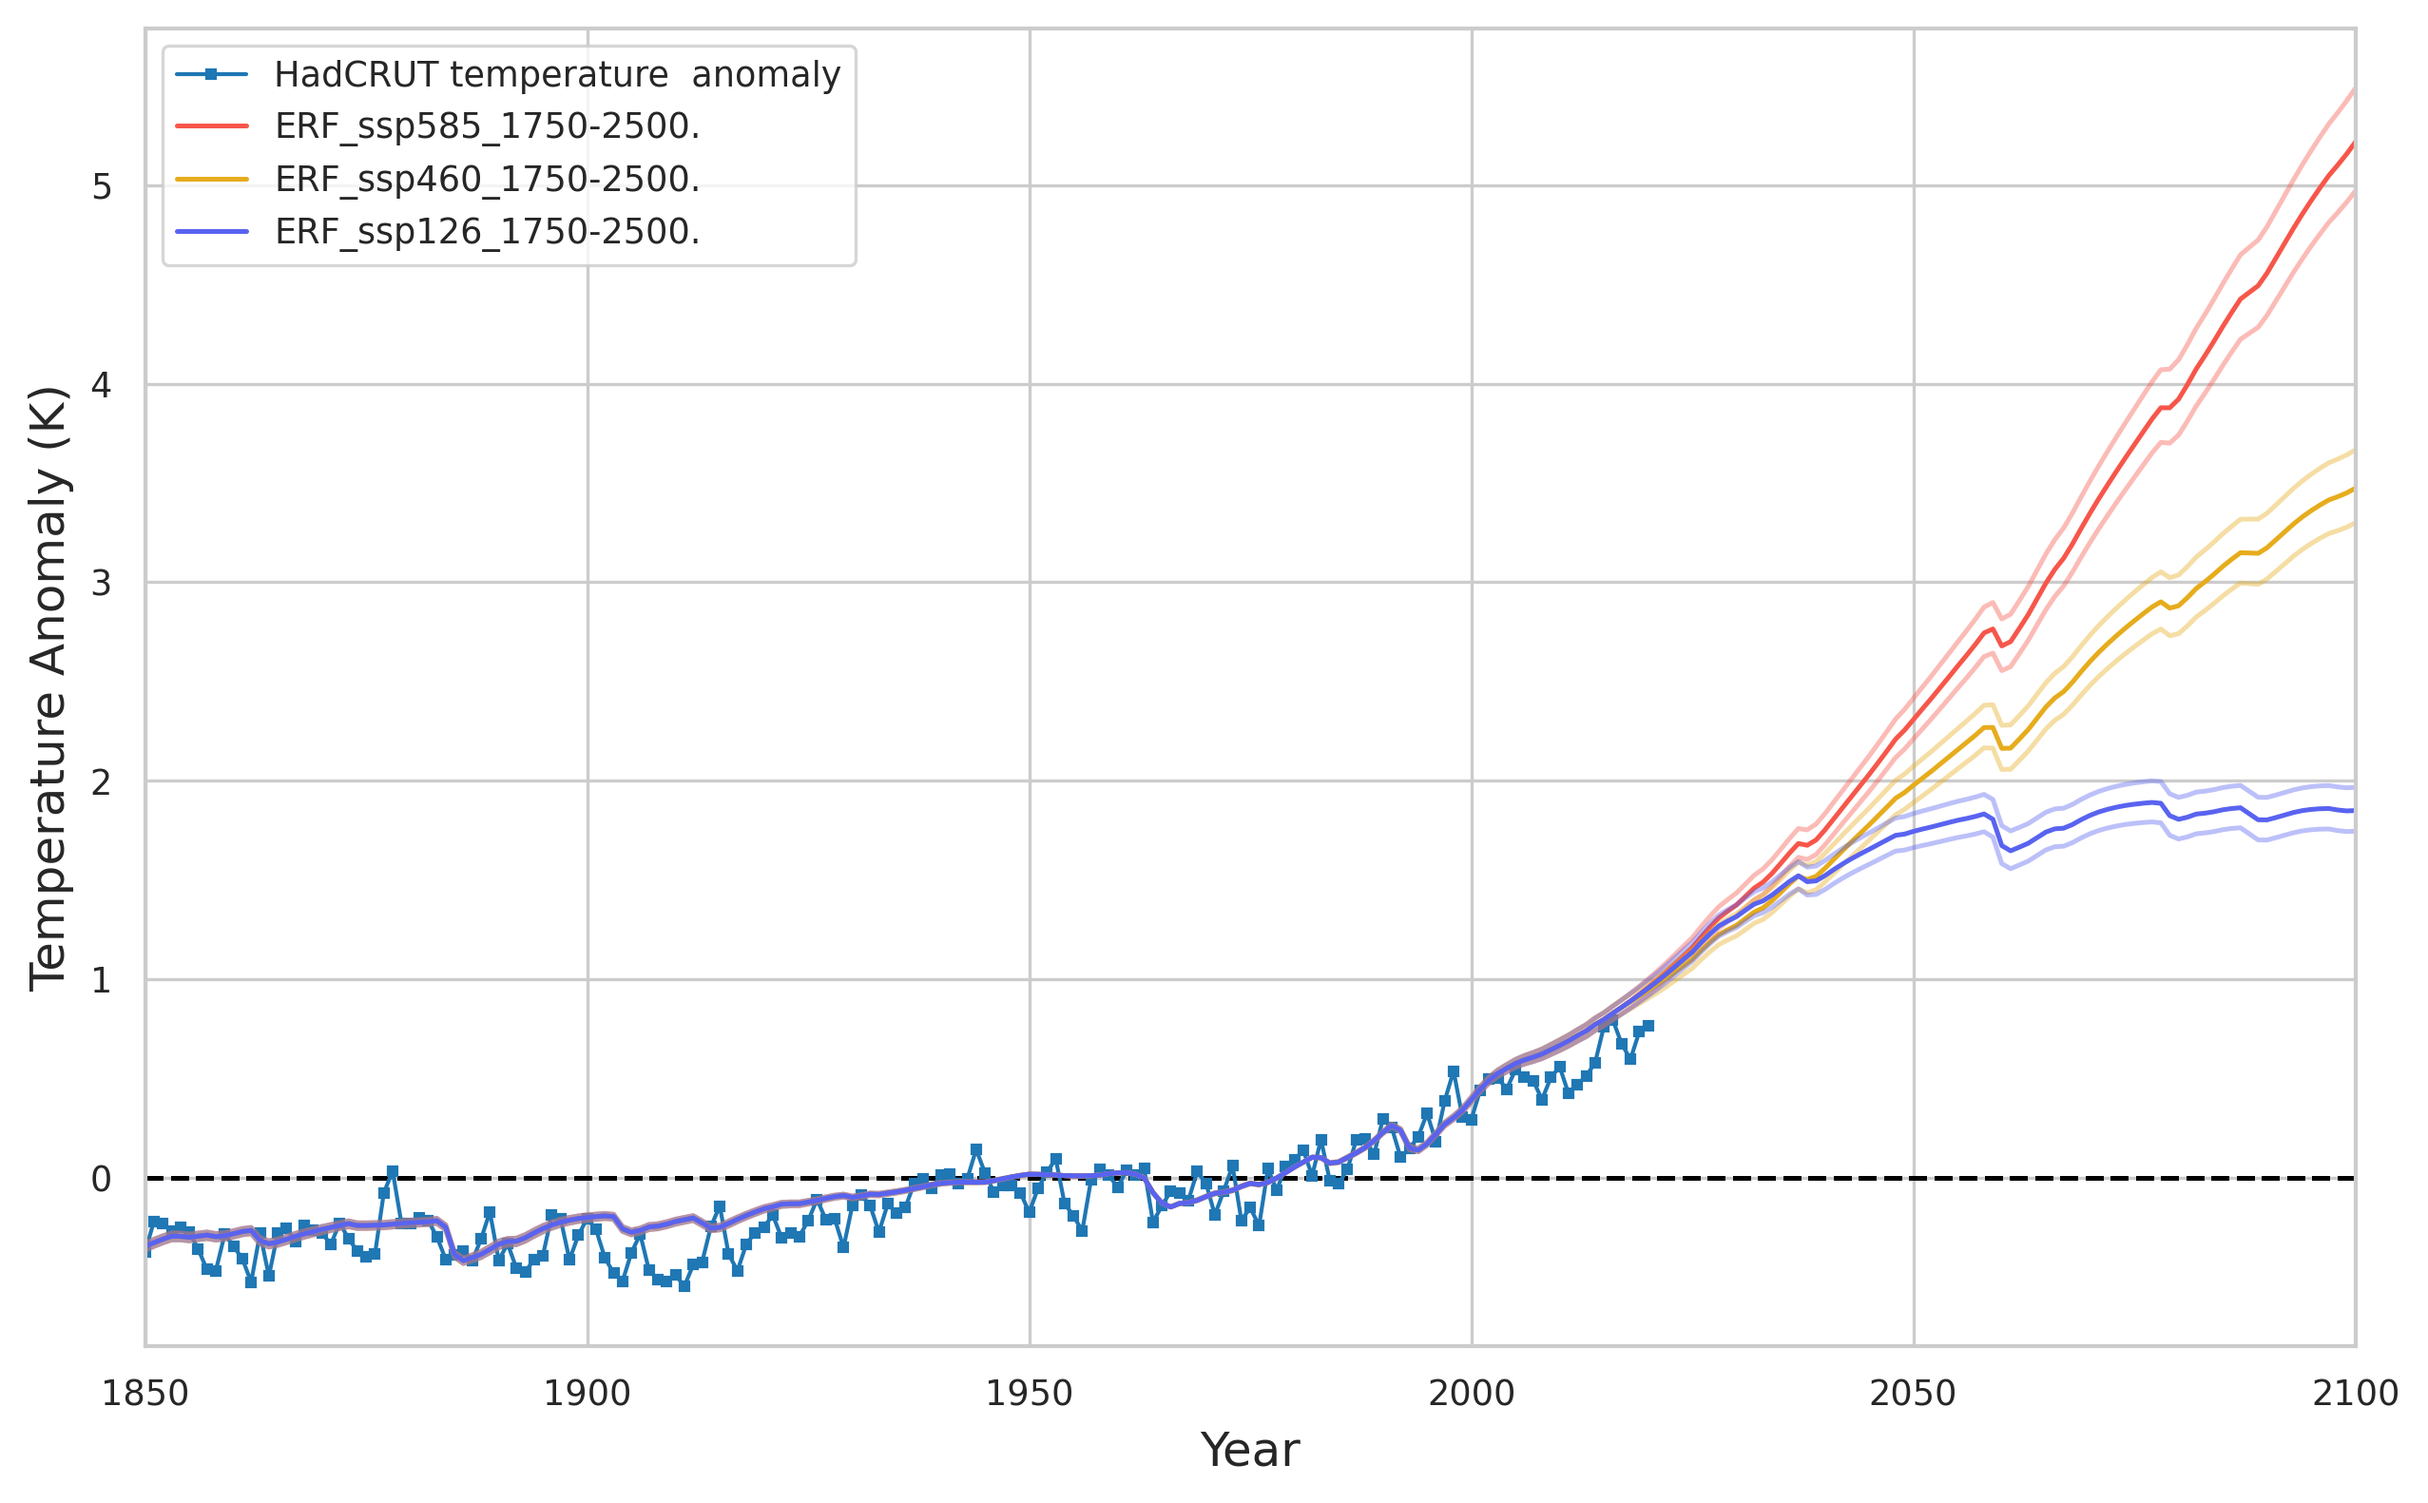
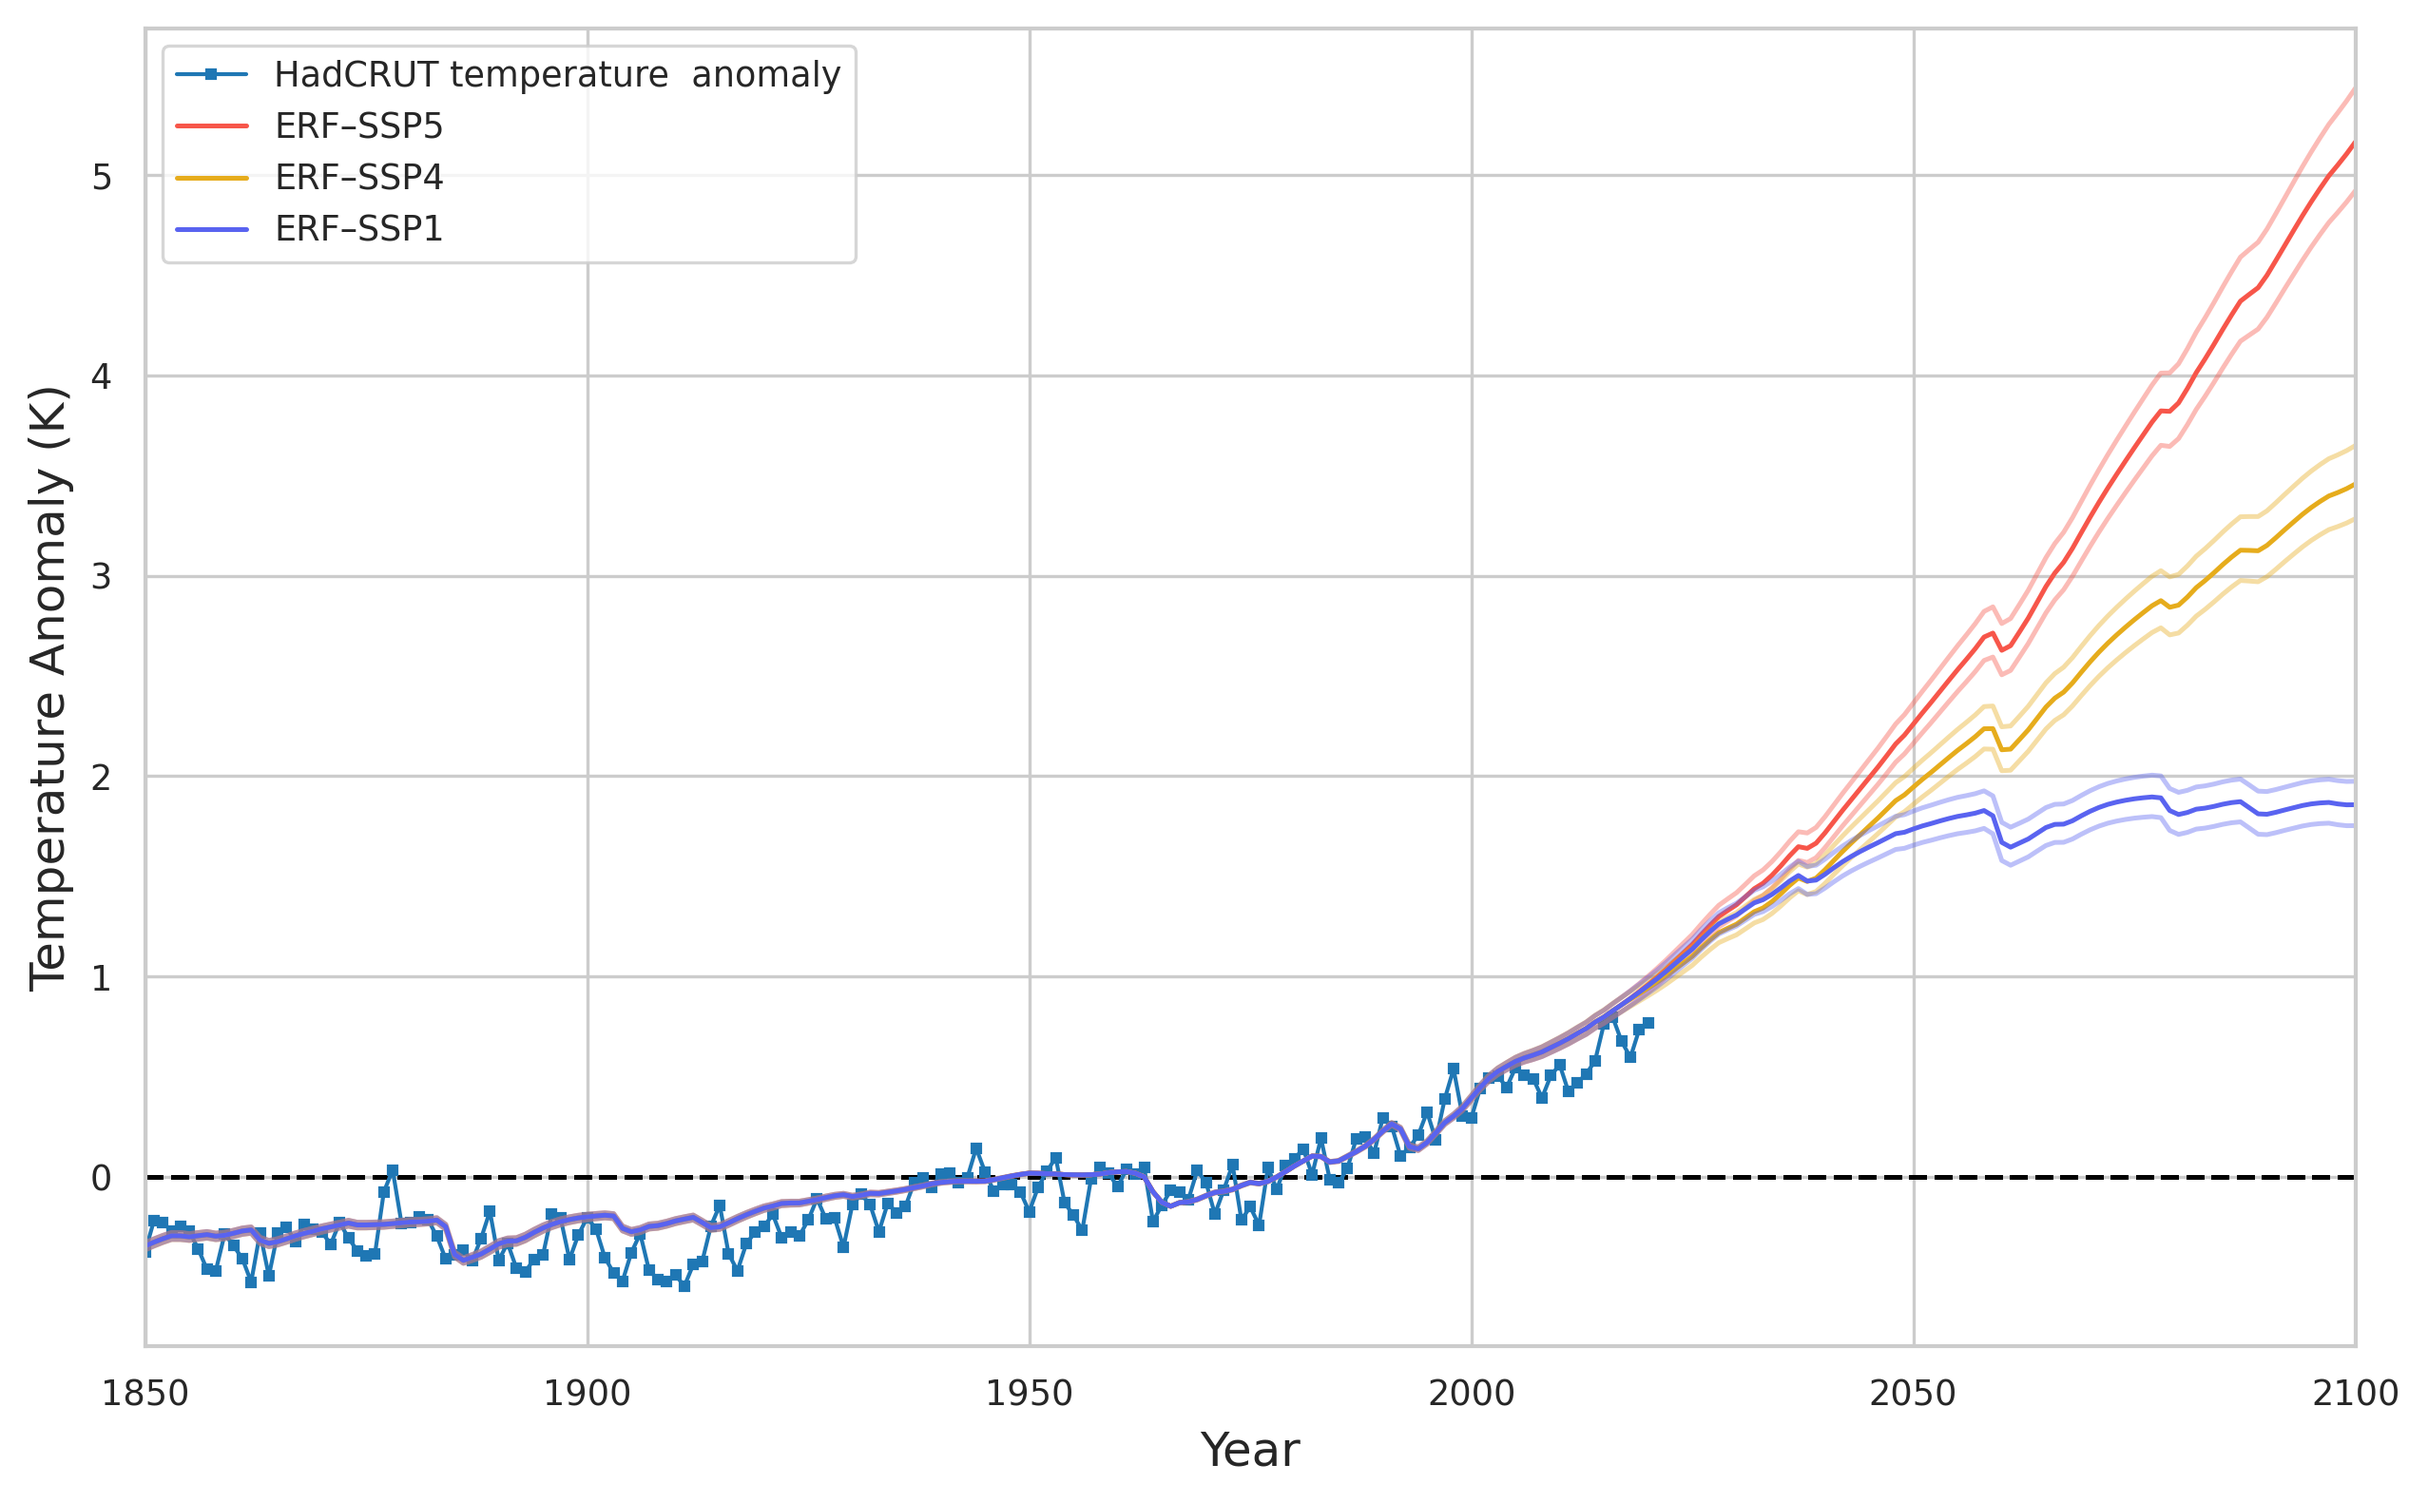
add volcanic plot

diff --git a/experiments.py b/experiments.py
@@ -43,6 +43,8 @@ def plot_model(years, model,  label, ax=None, fig=None, **kwargs):
 def load_forcing_data(filename):
     ERF_data = pd.read_csv(filename)
     ERF_data = ERF_data.set_index('year')
+    plot_volcanic_record(ERF_data)
+    
     KRAK_VALS[1883] = ERF_data['volcanic'][KRAKATOA_YEAR]
     KRAK_VALS[1884] = ERF_data['volcanic'][KRAKATOA_YEAR+1]
     KRAK_VALS[1885] = ERF_data['volcanic'][KRAKATOA_YEAR+2]
@@ -50,7 +52,7 @@ def load_forcing_data(filename):
 
     past_volcanic_record = len(ERF_data['volcanic'].loc[1850:2024]) 
     new_vals = list(ERF_data['total'].loc[:2024].values)
-    new_vals.extend(ERF_data['total'].loc[2025:2024+past_volcanic_record].values + ERF_data['volcanic'].loc[1850:2024].values)
+    new_vals.extend(ERF_data['total'].loc[2024:2023+past_volcanic_record].values + ERF_data['volcanic'].loc[1850:2024].values)
     new_vals.extend(ERF_data['total'].loc[2024+past_volcanic_record+1:].values)
     ERF_data['total'] = new_vals
 
@@ -66,6 +68,19 @@ def calc_confidence_interval(data):
     upper_conf_int = x_bar + 1.960 * st_dev/np.sqrt(n)
     lower_conf_int = x_bar - 1.960 * st_dev/np.sqrt(n)
     return upper_conf_int, lower_conf_int
+
+
+def plot_volcanic_record(data):
+    past_volcanic_record = len(data['volcanic'].loc[1850:2024]) 
+
+    fig, ax = plt.subplots(1, figsize=(10, 6))
+    data['volcanic'].loc[1850:2024].plot(ax=ax)
+    ax.plot(np.arange(2024,2024+past_volcanic_record), data['volcanic'].loc[1850:2024].values)
+    
+    plt.savefig('outputs/volcanic_record_extended.png', bbox_inches='tight')
+    plt.close()
+
+    
 
 
 def main(krakatwoa=False, save_filename='outputs/upper_ocean_projection_volcanic.png'):
@@ -104,7 +119,7 @@ def main(krakatwoa=False, save_filename='outputs/upper_ocean_projection_volcanic
         proj_lower = model.upper_ocean_temp(t=len(ERF_fut), alpha=alpha_val-1.96*0.048, F=ERF_fut, krakatwoa=krakatwoa)
 
         ## plot and save ouputs
-        fig, ax = plot_model(years_fut, projection, label='%s' % (scen_file[:-3]), fig=fig, ax=ax, color=COLORS[ind])
+        fig, ax = plot_model(years_fut, projection, label='%s' % (scen_file[:-16].replace('_', '–').upper()), fig=fig, ax=ax, color=COLORS[ind])
         fig, ax = plot_model(years_fut, proj_upper, label=None, fig=fig, ax=ax, alpha=.4, color=COLORS[ind])
         fig, ax = plot_model(years_fut, proj_lower, label=None, fig=fig, ax=ax, alpha=.4, color=COLORS[ind])
     fig.savefig(save_filename, bbox_inches='tight', dpi=300)
